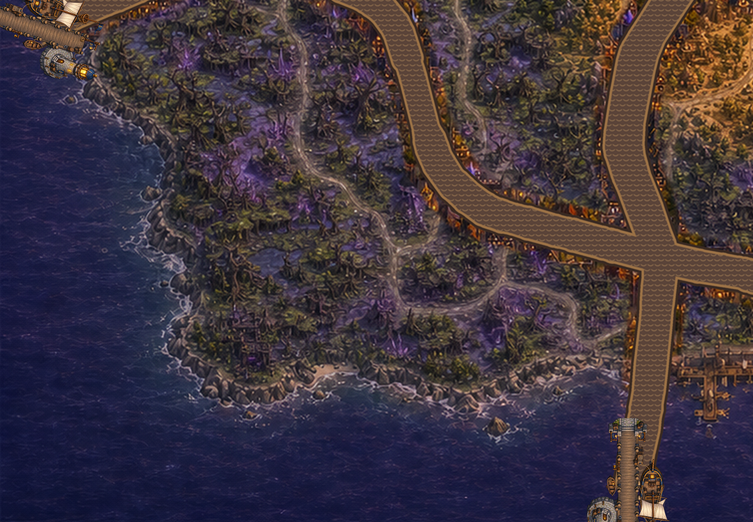
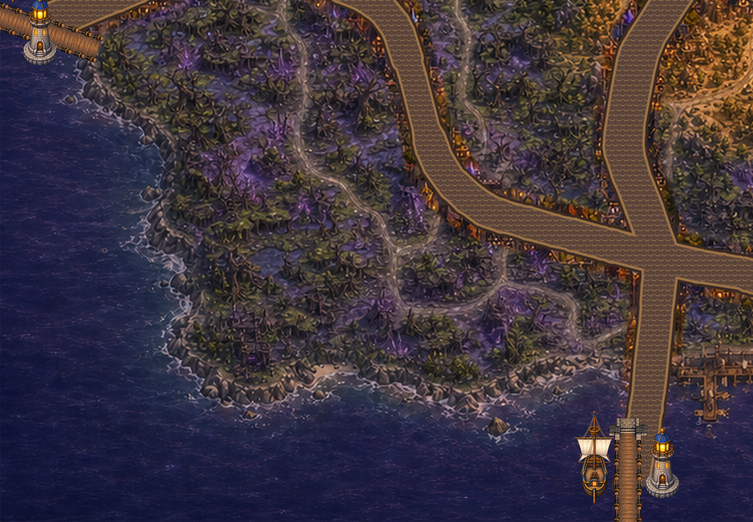
fix: keep harbor structures upright

Changed region(s): [[0.7636, 0.7969, 0.9163, 1.0], [0.0, 0.0, 0.1527, 0.1533]]

diff --git a/tests/v2-osm-source.test.js b/tests/v2-osm-source.test.js
@@ -164,12 +164,18 @@ test('Past Evening map build clips roads to an island and draws ports at coastal
   const runtime = fs.readFileSync('v2.js', 'utf8');
   assert.match(builder, /past_land_mask/);
   assert.match(builder, /draw_past_ports/);
-  assert.match(builder, /HARBOR_SETPIECE_SOURCE_PATH/);
-  assert.match(builder, /harbor_sprite\.rotate/);
+  assert.match(builder, /HARBOR_PIER_SOURCE_PATH/);
+  assert.match(builder, /HARBOR_SHIP_SOURCE_PATH/);
+  assert.match(builder, /HARBOR_LIGHTHOUSE_SOURCE_PATH/);
+  assert.match(builder, /pier_sprite\.rotate/);
+  assert.doesNotMatch(builder, /ship_sprite\.rotate|lighthouse_sprite\.rotate/);
+  assert.match(builder, /composite_upright_harbor_prop/);
   assert.match(builder, /Image\.Resampling\.LANCZOS/);
   assert.match(builder, /alpha_composite/);
   assert.match(builder, /ImageChops\.multiply/);
-  assert.equal(fs.existsSync(path.join('assets', 'v2', 'past-events', 'harbor-setpiece-source.png')), true);
+  for (const name of ['harbor-pier-source.png', 'harbor-ship-source.png', 'harbor-lighthouse-source.png']) {
+    assert.equal(fs.existsSync(path.join('assets', 'v2', 'past-events', name)), true, name);
+  }
   assert.match(html, /road-collision-past-data\.js/);
   assert.match(runtime, /V2_ROAD_COLLISION_PAST/);
 });

diff --git a/tests/v2-pages-build.test.js b/tests/v2-pages-build.test.js
@@ -41,6 +41,9 @@ test('Pages build contains the playable game without authoring source assets', (
       'tests',
       'assets/v2/PAST_ASSET_PROMPTS.md',
       'assets/v2/past-events/harbor-setpiece-source.png',
+      'assets/v2/past-events/harbor-pier-source.png',
+      'assets/v2/past-events/harbor-ship-source.png',
+      'assets/v2/past-events/harbor-lighthouse-source.png',
       'assets/v2/osm-road-source.json',
       'assets/v2/landmarks/roppongi-hills-source.png'
     ]) assert.equal(fs.existsSync(path.join(output, forbidden)), false, forbidden);

diff --git a/v2.html b/v2.html
@@ -191,7 +191,7 @@
     <script src="assets/v2/road-collision-data.js?edition=1"></script>
     <script src="assets/v2/road-collision-past-data.js?edition=1"></script>
     <script src="assets/v2/map-layout-data.js?edition=1"></script>
-    <script src="v2-editions.js?edition=3"></script>
+    <script src="v2-editions.js?edition=4"></script>
     <script src="v2-assets.js?edition=1"></script>
     <script src="v2-landmarks.js?edition=1"></script>
     <script src="v2-battle.js?edition=6"></script>

diff --git a/tests/v2-editions.test.js b/tests/v2-editions.test.js
@@ -28,7 +28,7 @@ test('both editions use four-tile seamless map directories', () => {
 
 test('Past Evening increments its tile cache version when the road-composited tiles change', () => {
   const past = editionDefinition('past');
-  assert.equal(past.tileVersion, 3);
+  assert.equal(past.tileVersion, 4);
 });
 
 test('Past Evening uses its own medieval landmark art with matching filenames', () => {

diff --git a/tests/v2-past-tiles.test.js b/tests/v2-past-tiles.test.js
@@ -32,6 +32,6 @@ test('past runtime tiles were generated from the final road-composited map', () 
 
 test('past tile and runtime scripts use the current cache versions', () => {
   const html = fs.readFileSync('v2.html', 'utf8');
-  assert.match(html, /v2-editions\.js\?edition=3/);
+  assert.match(html, /v2-editions\.js\?edition=4/);
   assert.match(html, /v2\.js\?edition=18/);
 });

diff --git a/v2-editions.js b/v2-editions.js
@@ -20,7 +20,7 @@
       label: '過去編-夕方',
       subtitle: 'PAST · EVENING',
       tileDirectory: 'past-evening-runtime-tiles',
-      tileVersion: 3,
+      tileVersion: 4,
       landmarkDirectory: 'past-landmarks',
       landmarkSizeOverrides: Object.freeze({
         // The source sprite is tightly cropped after removing sheet-edge bleed.

diff --git a/tools/build-v2-geographic-map.py b/tools/build-v2-geographic-map.py
@@ -20,7 +20,9 @@ PREVIEW_PATH = ROOT / "tmp" / "v2-road-geographic-preview.png"
 LANDMARK_PREVIEW_PATH = ROOT / "tmp" / "v2-geographic-landmark-preview.png"
 PAST_LANDMARK_PREVIEW_PATH = ROOT / "tmp" / "v2-past-evening-landmark-preview.png"
 PAST_LAND_MASK_PATH = ROOT / "assets" / "v2" / "past-land-mask.png"
-HARBOR_SETPIECE_SOURCE_PATH = ROOT / "assets" / "v2" / "past-events" / "harbor-setpiece-source.png"
+HARBOR_PIER_SOURCE_PATH = ROOT / "assets" / "v2" / "past-events" / "harbor-pier-source.png"
+HARBOR_SHIP_SOURCE_PATH = ROOT / "assets" / "v2" / "past-events" / "harbor-ship-source.png"
+HARBOR_LIGHTHOUSE_SOURCE_PATH = ROOT / "assets" / "v2" / "past-events" / "harbor-lighthouse-source.png"
 COLLISION_DATA_PATH = ROOT / "assets" / "v2" / "road-collision-data.js"
 PAST_COLLISION_DATA_PATH = ROOT / "assets" / "v2" / "road-collision-past-data.js"
 LAYOUT_DATA_PATH = ROOT / "assets" / "v2" / "map-layout-data.js"
@@ -243,25 +245,72 @@ def coastal_road_ports(layout: dict, land_mask: Image.Image) -> list[tuple[float
     return ports
 
 
+def composite_upright_harbor_prop(
+    canvas: Image.Image,
+    source: Image.Image,
+    anchor: tuple[float, float],
+    target_height: int,
+) -> None:
+    # Tall pseudo-3D props use a bottom-center ground anchor. They are never
+    # rotated with the coast, so every mast and wall rises toward screen top.
+    content_bounds = source.getchannel("A").getbbox()
+    if content_bounds is None:
+        raise ValueError("Harbor prop source has no visible pixels")
+    sprite = source.crop(content_bounds)
+    target_width = max(1, round(sprite.width / sprite.height * target_height))
+    sprite = sprite.resize((target_width, target_height), Image.Resampling.LANCZOS)
+    left = round(anchor[0] - sprite.width / 2)
+    top = round(anchor[1] - sprite.height)
+    canvas.alpha_composite(sprite, (left, top))
+
+
 def draw_past_ports(canvas: Image.Image, layout: dict, land_mask: Image.Image) -> Image.Image:
     high_resolution = canvas.convert("RGBA").resize(
         (canvas.width * SUPERSAMPLE, canvas.height * SUPERSAMPLE),
         Image.Resampling.LANCZOS,
     )
-    harbor_source = Image.open(HARBOR_SETPIECE_SOURCE_PATH).convert("RGBA")
+    pier_source = Image.open(HARBOR_PIER_SOURCE_PATH).convert("RGBA")
+    ship_source = Image.open(HARBOR_SHIP_SOURCE_PATH).convert("RGBA")
+    lighthouse_source = Image.open(HARBOR_LIGHTHOUSE_SOURCE_PATH).convert("RGBA")
     for x, y, angle, road_width in coastal_road_ports(layout, land_mask):
         size = round(max(128, min(158, 112 + road_width * 1.35)) * SUPERSAMPLE)
-        harbor_sprite = harbor_source.resize((size, size), Image.Resampling.LANCZOS)
-        # The authored pier points toward the top; rotate that outward axis to
-        # the exact road/shore crossing without redrawing low-resolution edges.
-        harbor_sprite = harbor_sprite.rotate(
+        pier_sprite = pier_source.resize((size, size), Image.Resampling.LANCZOS)
+        # Only the low, mostly top-down deck follows the road/shore direction.
+        # Rotating the former combined sprite also turned towers and masts
+        # sideways, contradicting the map's consistent pseudo-3D projection.
+        pier_sprite = pier_sprite.rotate(
             math.degrees(angle) + 90,
             resample=Image.Resampling.BICUBIC,
             expand=True,
         )
-        left = round(x * SUPERSAMPLE - harbor_sprite.width / 2)
-        top = round(y * SUPERSAMPLE - harbor_sprite.height / 2)
-        high_resolution.alpha_composite(harbor_sprite, (left, top))
+        center = x * SUPERSAMPLE, y * SUPERSAMPLE
+        left = round(center[0] - pier_sprite.width / 2)
+        top = round(center[1] - pier_sprite.height / 2)
+        high_resolution.alpha_composite(pier_sprite, (left, top))
+
+        outward = math.cos(angle), math.sin(angle)
+        side = -outward[1], outward[0]
+        prop_anchors = (
+            (
+                center[0] + outward[0] * size * 0.12 + side[0] * size * 0.24,
+                center[1] + outward[1] * size * 0.12 + side[1] * size * 0.24,
+                ship_source,
+                round(size * 0.66),
+            ),
+            (
+                center[0] + outward[0] * size * 0.08 - side[0] * size * 0.24,
+                center[1] + outward[1] * size * 0.08 - side[1] * size * 0.24,
+                lighthouse_source,
+                round(size * 0.5),
+            ),
+        )
+        for anchor_x, anchor_y, source, target_height in sorted(prop_anchors, key=lambda item: item[1]):
+            composite_upright_harbor_prop(
+                high_resolution,
+                source,
+                (anchor_x, anchor_y),
+                target_height,
+            )
     return high_resolution.resize(canvas.size, Image.Resampling.LANCZOS).convert("RGB")
 
 def mask_to_runs(mask: Image.Image) -> list[list[list[int]]]:

diff --git a/assets/v2/PAST_ASSET_PROMPTS.md b/assets/v2/PAST_ASSET_PROMPTS.md
@@ -140,3 +140,59 @@ Composition: square canvas, the complete harbor isolated in the center, generous
 Lighting: neutral soft ambient asset lighting with subtle warm lighthouse glow; avoid directional cast shadows so the whole asset can be rotated to different shore directions without looking wrong.
 Constraints: genuinely transparent background; no ocean background; no land terrain background; no coast edge; no people; no labels; no text; no modern vehicles; no UI; no watermark. The asset will be rotated and composited over existing sea and shore pixels.
 ```
+
+## 港の固定疑似3D投影
+
+港全体を回転すると灯台や帆まで横倒しになるため、最終版では桟橋だけを回転し、船と灯台は常に画面上方向へ立つ独立レイヤーとして合成する。
+
+`harbor-pier-source.png` のベース生成
+
+```text
+Use case: precise-object-edit
+Asset type: transparent rotatable JRPG overworld pier component
+Input images: Image 1 is the current harbor setpiece and the edit target/style reference.
+Primary request: Isolate and retain only the clean wooden pier/deck and its low stone land-connection landing. Remove the sailing ship, rowboat, lighthouse, tower, flags, hanging lantern posts, tall masts, crates, barrels, ropes and every other tall or directional prop. Reconstruct any deck boards hidden behind removed objects.
+Style/medium: preserve the exact hand-painted high-resolution classic 16-bit/32-bit JRPG overworld style, materials, outline weight and warm brown palette of Image 1.
+Composition/framing: square transparent canvas; one straight pier runs vertically from a low stone landing at exact bottom center toward a clean squared seaward end at exact top center; centered; generous transparent padding; perfectly suitable for rotation to any coast direction.
+Perspective: mostly top-down deck surface with only very shallow edge thickness. No pseudo-3D vertical structures and no directional lighting or shadows, so rotation by 0/90/180/270 degrees remains visually natural.
+Constraints: genuinely transparent background; change the asset into a pier-only layer; no water, no terrain, no coast, no ship, no boat, no lighthouse, no building, no mast, no flags, no text, no UI, no watermark.
+```
+
+`harbor-pier-source.png` の透明背景補正
+
+```text
+Use case: background-extraction
+Asset type: transparent rotatable JRPG overworld pier component
+Input images: Image 1 is the pier-only edit target. Its visible pale checkerboard is an incorrect baked background, not part of the artwork.
+Primary request: Remove only the entire pale checkerboard/background and replace it with genuine PNG alpha transparency. Preserve the wooden pier, low posts, metal brackets, ropes on the posts, and bottom stone landing exactly as shown, including their shape, colors, texture, scale and centered vertical orientation.
+Composition/framing: keep the same square canvas and the same centered bottom-to-top pier placement.
+Constraints: actual transparent pixels everywhere outside the pier and landing; clean anti-aliased cutout edges; no white or gray checkerboard; no halo; no new objects; no restyling; no water; no terrain; no text; no UI; no watermark.
+```
+
+`harbor-lighthouse-source.png`
+
+```text
+Use case: precise-object-edit
+Asset type: transparent upright JRPG overworld lighthouse component
+Input images: Image 1 is the current harbor setpiece and the edit target/style reference.
+Primary request: Isolate the stone lighthouse from Image 1 as a separate reusable sprite. Remove the pier, ships, boats, ropes, barrels, crates, flags and every other harbor object. Preserve the lighthouse's blue-and-gold lantern roof, warm lit windows, round stone base and small front steps, while reconstructing clean hidden edges.
+Style/medium: preserve the exact hand-painted high-resolution classic 16-bit/32-bit JRPG overworld style, material detail, outline weight and palette of Image 1.
+Composition/framing: square transparent canvas; lighthouse centered; base contact point at exact bottom center; generous transparent padding above and to both sides; entire silhouette visible.
+Perspective: front-facing pseudo-3D overworld sprite. The stone base rests at the bottom and the tower rises strictly toward the top edge of the screen. Vertical walls stay vertical. Camera is in front with a slight view of the roof and front doorway, consistent with all buildings extending upward on the map.
+Lighting/mood: neutral ambient lighting with warm lantern glow; no long directional cast shadow.
+Constraints: genuinely transparent background; no water, no terrain, no pier, no ship, no boat, no extra building, no text, no UI, no watermark. Do not tilt or rotate the tower left, right, or downward.
+```
+
+`harbor-ship-source.png`
+
+```text
+Use case: precise-object-edit
+Asset type: transparent upright JRPG overworld harbor ship component
+Input images: Image 1 is the current harbor setpiece and the edit target/style reference.
+Primary request: Isolate the compact medieval single-mast sailing ship from Image 1 as a separate reusable harbor sprite. Remove the pier, lighthouse, rowboat, ropes connecting to the pier, crates, barrels, flags outside the ship and every other harbor object. Preserve the blue-and-gold hull, warm cabin windows, mast, rigging and cream sail, reconstructing clean hidden edges.
+Style/medium: preserve the exact hand-painted high-resolution classic 16-bit/32-bit JRPG overworld style, material detail, outline weight and palette of Image 1.
+Composition/framing: square transparent canvas; complete ship centered; hull contact/base at bottom center; mast and sail rise toward the top edge; generous transparent padding; entire silhouette visible.
+Perspective: front-facing pseudo-3D overworld sprite rather than a flat overhead token. The hull rests lower in the image and all vertical mast, sail and cabin details extend strictly upward on screen. Slight top-surface visibility is allowed, but the sprite must never appear sideways or upside-down.
+Lighting/mood: neutral ambient asset lighting with restrained warm window glow; no long directional cast shadow.
+Constraints: genuinely transparent background; no water, no terrain, no pier, no lighthouse, no rowboat, no extra building, no text, no UI, no watermark. Do not tilt or rotate the mast left, right, or downward.
+```
